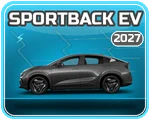
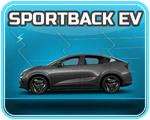
Madness: 5 combined models (RVR, Eclipse Cross, Outlander, Sportback EV, Outlander PHEV), no years on tiles; rebalanced strips + PAY_SCALE 0.345 (~95.7% RTP, 52.8% hit)

Changed region(s): [[0.72, 0.25, 0.96, 0.4]]

diff --git a/public/madness/math.js b/public/madness/math.js
@@ -1,20 +1,19 @@
 // MITSUBISHI MADNESS - original play-money slot math (UMD: browser window.MadnessMath, Node require()).
-// Base: 5 reels x 3 rows, 243 ways. Symbols are the 7 current Mitsubishi models, paying in order of top-trim MSRP
-// (2027 RVR lowest ... 2026 Outlander PHEV highest = jackpot symbol). Every feature is decided HERE before anything animates,
+// Base: 5 reels x 3 rows, 243 ways. Symbols are the 5 current Mitsubishi models (2026 + 2027 combined, no years), paying in order of
+// top-trim MSRP (RVR lowest ... Outlander PHEV highest = jackpot symbol). Every feature is decided HERE before anything animates,
 // so the cabinet only acts out a result that is already counted in the RTP. All amounts are in CREDITS (1 credit = $1 play money).
 (function (root, factory) { if (typeof module === 'object' && module.exports) module.exports = factory(); else root.MadnessMath = factory(); })(typeof self !== 'undefined' ? self : this, function () {
   'use strict';
   // ---- symbols, low -> high (top-trim MSRP, Mitsubishi Canada, Nov 2026) ----
   const SYM = {
-    R7: { name: '2027 RVR', msrp: 35958, kind: 'car' }, R6: { name: '2026 RVR', msrp: 35998, kind: 'car' }, EC: { name: '2026 Eclipse Cross', msrp: 38898, kind: 'car' },
-    O6: { name: '2026 Outlander', msrp: 49748, kind: 'car' }, O7: { name: '2027 Outlander', msrp: 50998, kind: 'car' }, EV: { name: '2027 Eclipse Sportback EV', msrp: 54098, kind: 'car' },
-    PH: { name: '2026 Outlander PHEV', msrp: 63048, kind: 'car' },
+    RV: { name: 'RVR', msrp: 35998, kind: 'car' }, EC: { name: 'Eclipse Cross', msrp: 38898, kind: 'car' }, OU: { name: 'Outlander', msrp: 50998, kind: 'car' },
+    EV: { name: 'Eclipse Sportback EV', msrp: 54098, kind: 'car' }, PH: { name: 'Outlander PHEV', msrp: 63048, kind: 'car' },
     WD: { name: 'Madness Wild', kind: 'wild' }, FL: { name: 'Checkered Flag', kind: 'scatter' }, PL: { name: 'Charge Plug', kind: 'plug' },
   };
-  const CARS = ['R7', 'R6', 'EC', 'O6', 'O7', 'EV', 'PH'];
+  const CARS = ['RV', 'EC', 'OU', 'EV', 'PH'];
   // pay per WAY for 3 / 4 / 5 of a kind, in multiples of the total bet (x PAY_SCALE)
-  const PAY_SCALE = 0.70;
-  const PAY0 = { R7: [0.10, 0.25, 0.60], R6: [0.10, 0.30, 0.70], EC: [0.15, 0.40, 1.00], O6: [0.20, 0.50, 1.50], O7: [0.25, 0.70, 2.00], EV: [0.40, 1.20, 4.00], PH: [0.60, 2.00, 10.0] };
+  const PAY_SCALE = 0.345;
+  const PAY0 = { RV: [0.10, 0.25, 0.60], EC: [0.15, 0.40, 1.00], OU: [0.20, 0.60, 1.60], EV: [0.40, 1.20, 4.00], PH: [0.60, 2.00, 10.0] };
   let PAY = {}; const setScale = k => { PAY = Object.fromEntries(Object.entries(PAY0).map(([s, a]) => [s, a.map(v => v * k)])); api.PAY = PAY; api.PAY_SCALE = k; };
   const BETS = [1, 2, 3, 5, 10]; // credits per spin (243 ways)
   const JP = { mini: 20, minor: 50, major: 200, grand: 1000 }; // x bet: MINI (RVR) / MINOR (ECLIPSE) / MAJOR (OUTLANDER) / GRAND (PHEV)
@@ -46,18 +45,18 @@
   const CHARGE = { max: 72, burst: [[3, 10], [4, 14], [5, 16], [6, 16], [7, 14], [8, 10], [9, 8]], surge: 0.25, regen: 0.10, minKm: 10 };
   // ---- reel strips: fixed counts, fixed shuffle (same machine on every device) ----
   const COUNTS = [
-    { R7: 9, R6: 9, EC: 8, O6: 7, O7: 6, EV: 5, PH: 3, FL: 2, PL: 2 },
-    { R7: 9, R6: 9, EC: 8, O6: 7, O7: 6, EV: 5, PH: 3, FL: 2, WD: 3 },
-    { R7: 9, R6: 9, EC: 8, O6: 7, O7: 6, EV: 5, PH: 3, FL: 2, WD: 3, PL: 2 },
-    { R7: 9, R6: 9, EC: 8, O6: 7, O7: 6, EV: 5, PH: 3, FL: 2, WD: 3 },
-    { R7: 9, R6: 9, EC: 8, O6: 7, O7: 6, EV: 5, PH: 3, FL: 2, PL: 2 },
+    { RV: 20, EC: 12, OU: 8, EV: 4, PH: 3, FL: 2, PL: 2 },
+    { RV: 6, EC: 9, OU: 13, EV: 12, PH: 7, FL: 2, WD: 3 },
+    { RV: 18, EC: 12, OU: 9, EV: 5, PH: 3, FL: 2, WD: 3, PL: 2 },
+    { RV: 8, EC: 10, OU: 12, EV: 10, PH: 7, FL: 2, WD: 3 },
+    { RV: 16, EC: 12, OU: 10, EV: 6, PH: 3, FL: 2, PL: 2 },
   ];
   const FREE_COUNTS = [
-    { R7: 8, R6: 8, EC: 8, O6: 7, O7: 6, EV: 5, PH: 4, FL: 2 },
-    { R7: 8, R6: 8, EC: 8, O6: 7, O7: 6, EV: 5, PH: 4, FL: 2, WD: 4 },
-    { R7: 8, R6: 8, EC: 8, O6: 7, O7: 6, EV: 5, PH: 4, FL: 2, WD: 4 },
-    { R7: 8, R6: 8, EC: 8, O6: 7, O7: 6, EV: 5, PH: 4, FL: 2, WD: 4 },
-    { R7: 8, R6: 8, EC: 8, O6: 7, O7: 6, EV: 5, PH: 4, FL: 2 },
+    { RV: 12, EC: 11, OU: 10, EV: 8, PH: 5, FL: 2 },
+    { RV: 12, EC: 11, OU: 10, EV: 8, PH: 5, FL: 2, WD: 4 },
+    { RV: 12, EC: 11, OU: 10, EV: 8, PH: 5, FL: 2, WD: 4 },
+    { RV: 12, EC: 11, OU: 10, EV: 8, PH: 5, FL: 2, WD: 4 },
+    { RV: 12, EC: 11, OU: 10, EV: 8, PH: 5, FL: 2 },
   ];
   function mulberry32(a) { return function () { a |= 0; a = a + 0x6D2B79F5 | 0; let t = Math.imul(a ^ a >>> 15, 1 | a); t = t + Math.imul(t ^ t >>> 7, 61 | t) ^ t; return ((t ^ t >>> 14) >>> 0) / 4294967296; }; }
   function buildStrip(counts, seed) {

diff --git a/public/madness/game.js b/public/madness/game.js
@@ -80,18 +80,18 @@ setInterval(() => { const el = $('cine'), vis = !el.classList.contains('hidden')
 // ---------------- debug / test forces ----------------
 const WIDX = id => M.WHEEL.findIndex(w => w.id === id);
 function forceOf(kind) {
-  const set = (g, r, y, c) => { g[r][y] = c; }, clean = g => { for (let r = 0; r < 5; r++) for (let y = 0; y < 3; y++) if (/FL|PL/.test(g[r][y].s)) g[r][y] = { s: 'R7' }; };
+  const set = (g, r, y, c) => { g[r][y] = c; }, clean = g => { for (let r = 0; r < 5; r++) for (let y = 0; y < 3; y++) if (/FL|PL/.test(g[r][y].s)) g[r][y] = { s: 'RV' }; };
   const flags = n => g => { clean(g); for (let r = 0; r < n; r++) set(g, r, r % 3, { s: 'FL' }); };
-  const row = (s, n, wild) => g => { clean(g); for (let r = 0; r < 5; r++) for (let y = 0; y < 3; y++) if (g[r][y].s === s) g[r][y] = { s: 'R6' }; for (let r = 0; r < n; r++) set(g, r, 1, { s }); if (wild) set(g, 2, 1, { s: 'WD', mult: wild }); };
+  const row = (s, n, wild) => g => { clean(g); for (let r = 0; r < 5; r++) for (let y = 0; y < 3; y++) if (g[r][y].s === s) g[r][y] = { s: s === 'RV' ? 'EC' : 'RV' }; for (let r = 0; r < n; r++) set(g, r, 1, { s }); if (wild) set(g, 2, 1, { s: 'WD', mult: wild }); };
   const F = { kind };
   const grids = {
     win: row('EC', 3), big: g => { row('EV', 5)(g); set(g, 1, 0, { s: 'EV' }); set(g, 3, 2, { s: 'EV' }); set(g, 2, 1, { s: 'WD', mult: 2 }); },
     mega: g => { row('PH', 5)(g); set(g, 2, 1, { s: 'WD', mult: 3 }); set(g, 0, 0, { s: 'PH' }); set(g, 1, 0, { s: 'PH' }); },
     madness: g => { row('PH', 5)(g); for (const r of [0, 1, 3, 4]) set(g, r, 0, { s: 'PH' }); set(g, 2, 1, { s: 'WD', mult: 3 }); set(g, 2, 0, { s: 'WD', mult: 2 }); },
-    wild: g => { row('O7', 4)(g); set(g, 1, 1, { s: 'WD', mult: 3 }); set(g, 3, 1, { s: 'WD', mult: 2 }); },
+    wild: g => { row('OU', 4)(g); set(g, 1, 1, { s: 'WD', mult: 3 }); set(g, 3, 1, { s: 'WD', mult: 2 }); },
     jackpot: g => { clean(g); for (let r = 0; r < 5; r++) set(g, r, 1, { s: 'PH' }); },
     almost: g => { clean(g); set(g, 0, 0, { s: 'FL' }); set(g, 1, 2, { s: 'FL' }); },
-    drift: g => { clean(g); for (let r = 0; r < 5; r++) for (let y = 0; y < 3; y++) if (g[r][y].s === 'WD' || g[r][y].s === 'O6') g[r][y] = { s: 'R7' }; set(g, 0, 1, { s: 'O6' }); set(g, 1, 0, { s: 'O6' }); set(g, 3, 2, { s: 'O6' }); },
+    drift: g => { clean(g); for (let r = 0; r < 5; r++) for (let y = 0; y < 3; y++) if (g[r][y].s === 'WD' || g[r][y].s === 'OU') g[r][y] = { s: 'RV' }; set(g, 0, 1, { s: 'OU' }); set(g, 1, 0, { s: 'OU' }); set(g, 3, 2, { s: 'OU' }); },
     meter: g => { clean(g); set(g, 0, 1, { s: 'FL' }); },
     charge: g => { clean(g); set(g, 0, 0, { s: 'PL' }); set(g, 2, 1, { s: 'PL' }); set(g, 4, 2, { s: 'PL' }); },
   };
@@ -288,7 +288,7 @@ function showRules() { $('menuBody').innerHTML = `<h3>DRIFT WILD</h3><p>Any spin
   <h3>RALLY RACE</h3><p>Pick one of four cars and watch the race. 1st = 30× (NITRO FINISH doubles it to 60×), 2nd = 15×, 3rd = 8×, 4th = 4× bet.</p>
   <h3>S-AWC CHALLENGE</h3><p>Five trail stages. Each cleared stage pays 2× – 10× bet. Get STUCK and it ends — but S-AWC can rescue you once. Clear all 5 for a 20× SUMMIT bonus.</p>
   <h3>PHEV CHARGE</h3><p>The Outlander PHEV plugs in. Tap to charge in bursts of 3 – 9 km (REGEN BOOST doubles a burst). A POWER SURGE can stop the charge. Every km = 1 credit × bet; a FULL CHARGE is 72 km = 72 credits × bet (exactly 72 credits at bet 1).</p>`; }
-function showAbout() { $('menuBody').innerHTML = `<p><b>MITSUBISHI MADNESS</b> is a play-money game for fun. No real money, no prizes, no cash value. Vehicle names and pictures show the current 2026 – 2027 Mitsubishi line-up; jackpot amounts are play credits, not vehicles.</p><p>Return to player ≈ ${(window.__rtp || 95.5)}% (simulated). Played ${st.played} spins on this device.</p>`; }
+function showAbout() { $('menuBody').innerHTML = `<p><b>MITSUBISHI MADNESS</b> is a play-money game for fun. No real money, no prizes, no cash value. Vehicle names and pictures show the current Mitsubishi line-up; jackpot amounts are play credits, not vehicles.</p><p>Return to player ≈ ${(window.__rtp || 95.5)}% (simulated). Played ${st.played} spins on this device.</p>`; }
 // ---------------- wiring ----------------
 $('spinBtn').addEventListener('click', spin); $('billBtn').addEventListener('click', insertBill); $('cashBtn').addEventListener('click', cashOut);
 $('betUp').addEventListener('click', () => { if (busy) return; st.bet = Math.min(M.BETS.length - 1, st.bet + 1); save(); meters(); A.play('click'); });

diff --git a/test/madness-math.test.js b/test/madness-math.test.js
@@ -2,25 +2,25 @@
 const test = require('node:test'), assert = require('assert'), M = require('../public/madness/math.js');
 const G = cols => cols.map(c => c.map(s => typeof s === 'string' ? { s } : s));
 test('paytable ranks the 7 models by top-trim MSRP; Outlander PHEV is the top prize', () => {
-  assert.deepStrictEqual(M.CARS, ['R7', 'R6', 'EC', 'O6', 'O7', 'EV', 'PH']);
+  assert.deepStrictEqual(M.CARS, ['RV', 'EC', 'OU', 'EV', 'PH']);
   for (let i = 1; i < M.CARS.length; i++) { const a = M.CARS[i - 1], b = M.CARS[i]; assert.ok(M.SYM[b].msrp > M.SYM[a].msrp, `${b} msrp > ${a}`); for (let n = 0; n < 3; n++) assert.ok(M.PAY[b][n] >= M.PAY[a][n], `${b} pays >= ${a} for ${n + 3}`); }
   assert.ok(M.PAY.PH[2] > M.PAY.EV[2] * 2, 'PHEV 5-of-a-kind clearly the top line pay');
   assert.strictEqual(M.JP.grand, 1000); assert.ok(M.JP.grand > M.JP.major && M.JP.major > M.JP.minor && M.JP.minor > M.JP.mini);
 });
 test('243-ways evaluation with wild multipliers', () => {
-  const g = G([['EC', 'R7', 'R6'], ['R6', { s: 'WD', mult: 2 }, 'R7'], ['EC', 'EC', 'O6'], ['R6', 'O6', 'R7'], ['O7', 'O7', 'O7']]);
+  const g = G([['EC', 'RV', 'RV'], ['RV', { s: 'WD', mult: 2 }, 'RV'], ['EC', 'EC', 'OU'], ['RV', 'OU', 'RV'], ['OU', 'OU', 'OU']]);
   const r = M.evalWays(g, 2); const ec = r.ways.find(w => w.s === 'EC');
   assert.ok(ec && ec.len === 3 && ec.ways === 2 && ec.mult === 2, JSON.stringify(ec)); assert.ok(Math.abs(ec.pay - M.PAY.EC[0] * 2 * 4) < 1e-9);
-  const none = M.evalWays(G([['R7', 'R7', 'R7'], ['EC', 'EC', 'EC'], ['R7', 'R7', 'R7'], ['R7', 'R7', 'R7'], ['R7', 'R7', 'R7']]), 1); assert.strictEqual(none.win, 0, 'reel 2 breaks the way');
+  const none = M.evalWays(G([['RV', 'RV', 'RV'], ['EC', 'EC', 'EC'], ['RV', 'RV', 'RV'], ['RV', 'RV', 'RV'], ['RV', 'RV', 'RV']]), 1); assert.strictEqual(none.win, 0, 'reel 2 breaks the way');
 });
 test('five Outlander PHEVs on the centre row = PHEV GRAND (1000x bet)', () => {
   const s = M.spin(3, Math.random, { force: g => { for (let r = 0; r < 5; r++) g[r][1] = { s: 'PH' }; } });
   assert.ok(s.jackpot && s.jackpot.id === 'grand' && s.jackpot.win === 3000); assert.ok(s.win >= 3000);
 });
 test('triggers: 3/4/5 flags -> wheel tier 1/2/3, 3 plugs -> PHEV charge, meter fills', () => {
-  for (const n of [3, 4, 5]) { const s = M.spin(1, Math.random, { force: g => { for (let r = 0; r < 5; r++) for (let y = 0; y < 3; y++) if (/FL|PL/.test(g[r][y].s)) g[r][y] = { s: 'R7' }; for (let r = 0; r < n; r++) g[r][0] = { s: 'FL' }; } }); assert.deepStrictEqual([s.trigger.type, s.trigger.tier], ['wheel', n - 2]); }
-  const c = M.spin(1, Math.random, { force: g => { for (let r = 0; r < 5; r++) for (let y = 0; y < 3; y++) if (/FL|PL/.test(g[r][y].s)) g[r][y] = { s: 'R7' }; for (const r of [0, 2, 4]) g[r][2] = { s: 'PL' }; } }); assert.strictEqual(c.trigger.type, 'charge');
-  const m = { n: M.METER_MAX - 1 }; const s = M.spin(1, Math.random, { meter: m, force: g => { for (let r = 0; r < 5; r++) for (let y = 0; y < 3; y++) if (/FL|PL/.test(g[r][y].s)) g[r][y] = { s: 'R7' }; g[0][0] = { s: 'FL' }; } });
+  for (const n of [3, 4, 5]) { const s = M.spin(1, Math.random, { force: g => { for (let r = 0; r < 5; r++) for (let y = 0; y < 3; y++) if (/FL|PL/.test(g[r][y].s)) g[r][y] = { s: 'RV' }; for (let r = 0; r < n; r++) g[r][0] = { s: 'FL' }; } }); assert.deepStrictEqual([s.trigger.type, s.trigger.tier], ['wheel', n - 2]); }
+  const c = M.spin(1, Math.random, { force: g => { for (let r = 0; r < 5; r++) for (let y = 0; y < 3; y++) if (/FL|PL/.test(g[r][y].s)) g[r][y] = { s: 'RV' }; for (const r of [0, 2, 4]) g[r][2] = { s: 'PL' }; } }); assert.strictEqual(c.trigger.type, 'charge');
+  const m = { n: M.METER_MAX - 1 }; const s = M.spin(1, Math.random, { meter: m, force: g => { for (let r = 0; r < 5; r++) for (let y = 0; y < 3; y++) if (/FL|PL/.test(g[r][y].s)) g[r][y] = { s: 'RV' }; g[0][0] = { s: 'FL' }; } });
   assert.ok(s.meter.full && s.trigger.via === 'meter' && m.n === 0);
 });
 test('reel strips: specials at most once per 3-row window', () => {

diff --git a/public/madness/reels.js b/public/madness/reels.js
@@ -1,7 +1,7 @@
 // MITSUBISHI MADNESS - canvas reels (5 x 3): wind-back start, motion blur, staggered stops with overshoot, tease (slow, glowing) reels,
 // landing pops for specials, win pulse + dimming, wild multiplier chips, drift-wild reel transform. Purely visual. window.MadReels
 (function () {
-  const CODES = ['R7', 'R6', 'EC', 'O6', 'O7', 'EV', 'PH', 'WD', 'FL', 'PL'], V = '1';
+  const CODES = ['RV', 'EC', 'OU', 'EV', 'PH', 'WD', 'FL', 'PL'], V = '2';
   const img = {}, ready = Promise.all(CODES.map(c => new Promise(r => { const i = new Image(); i.decoding = 'async'; i.onload = i.onerror = () => r(); i.src = `/madness/art/${c}@2x.webp?v=${V}`; img[c] = i; })));
   const SPECIAL = { WD: 1, FL: 1, PL: 1 };
   const clamp = (x, a, b) => Math.max(a, Math.min(b, x));
